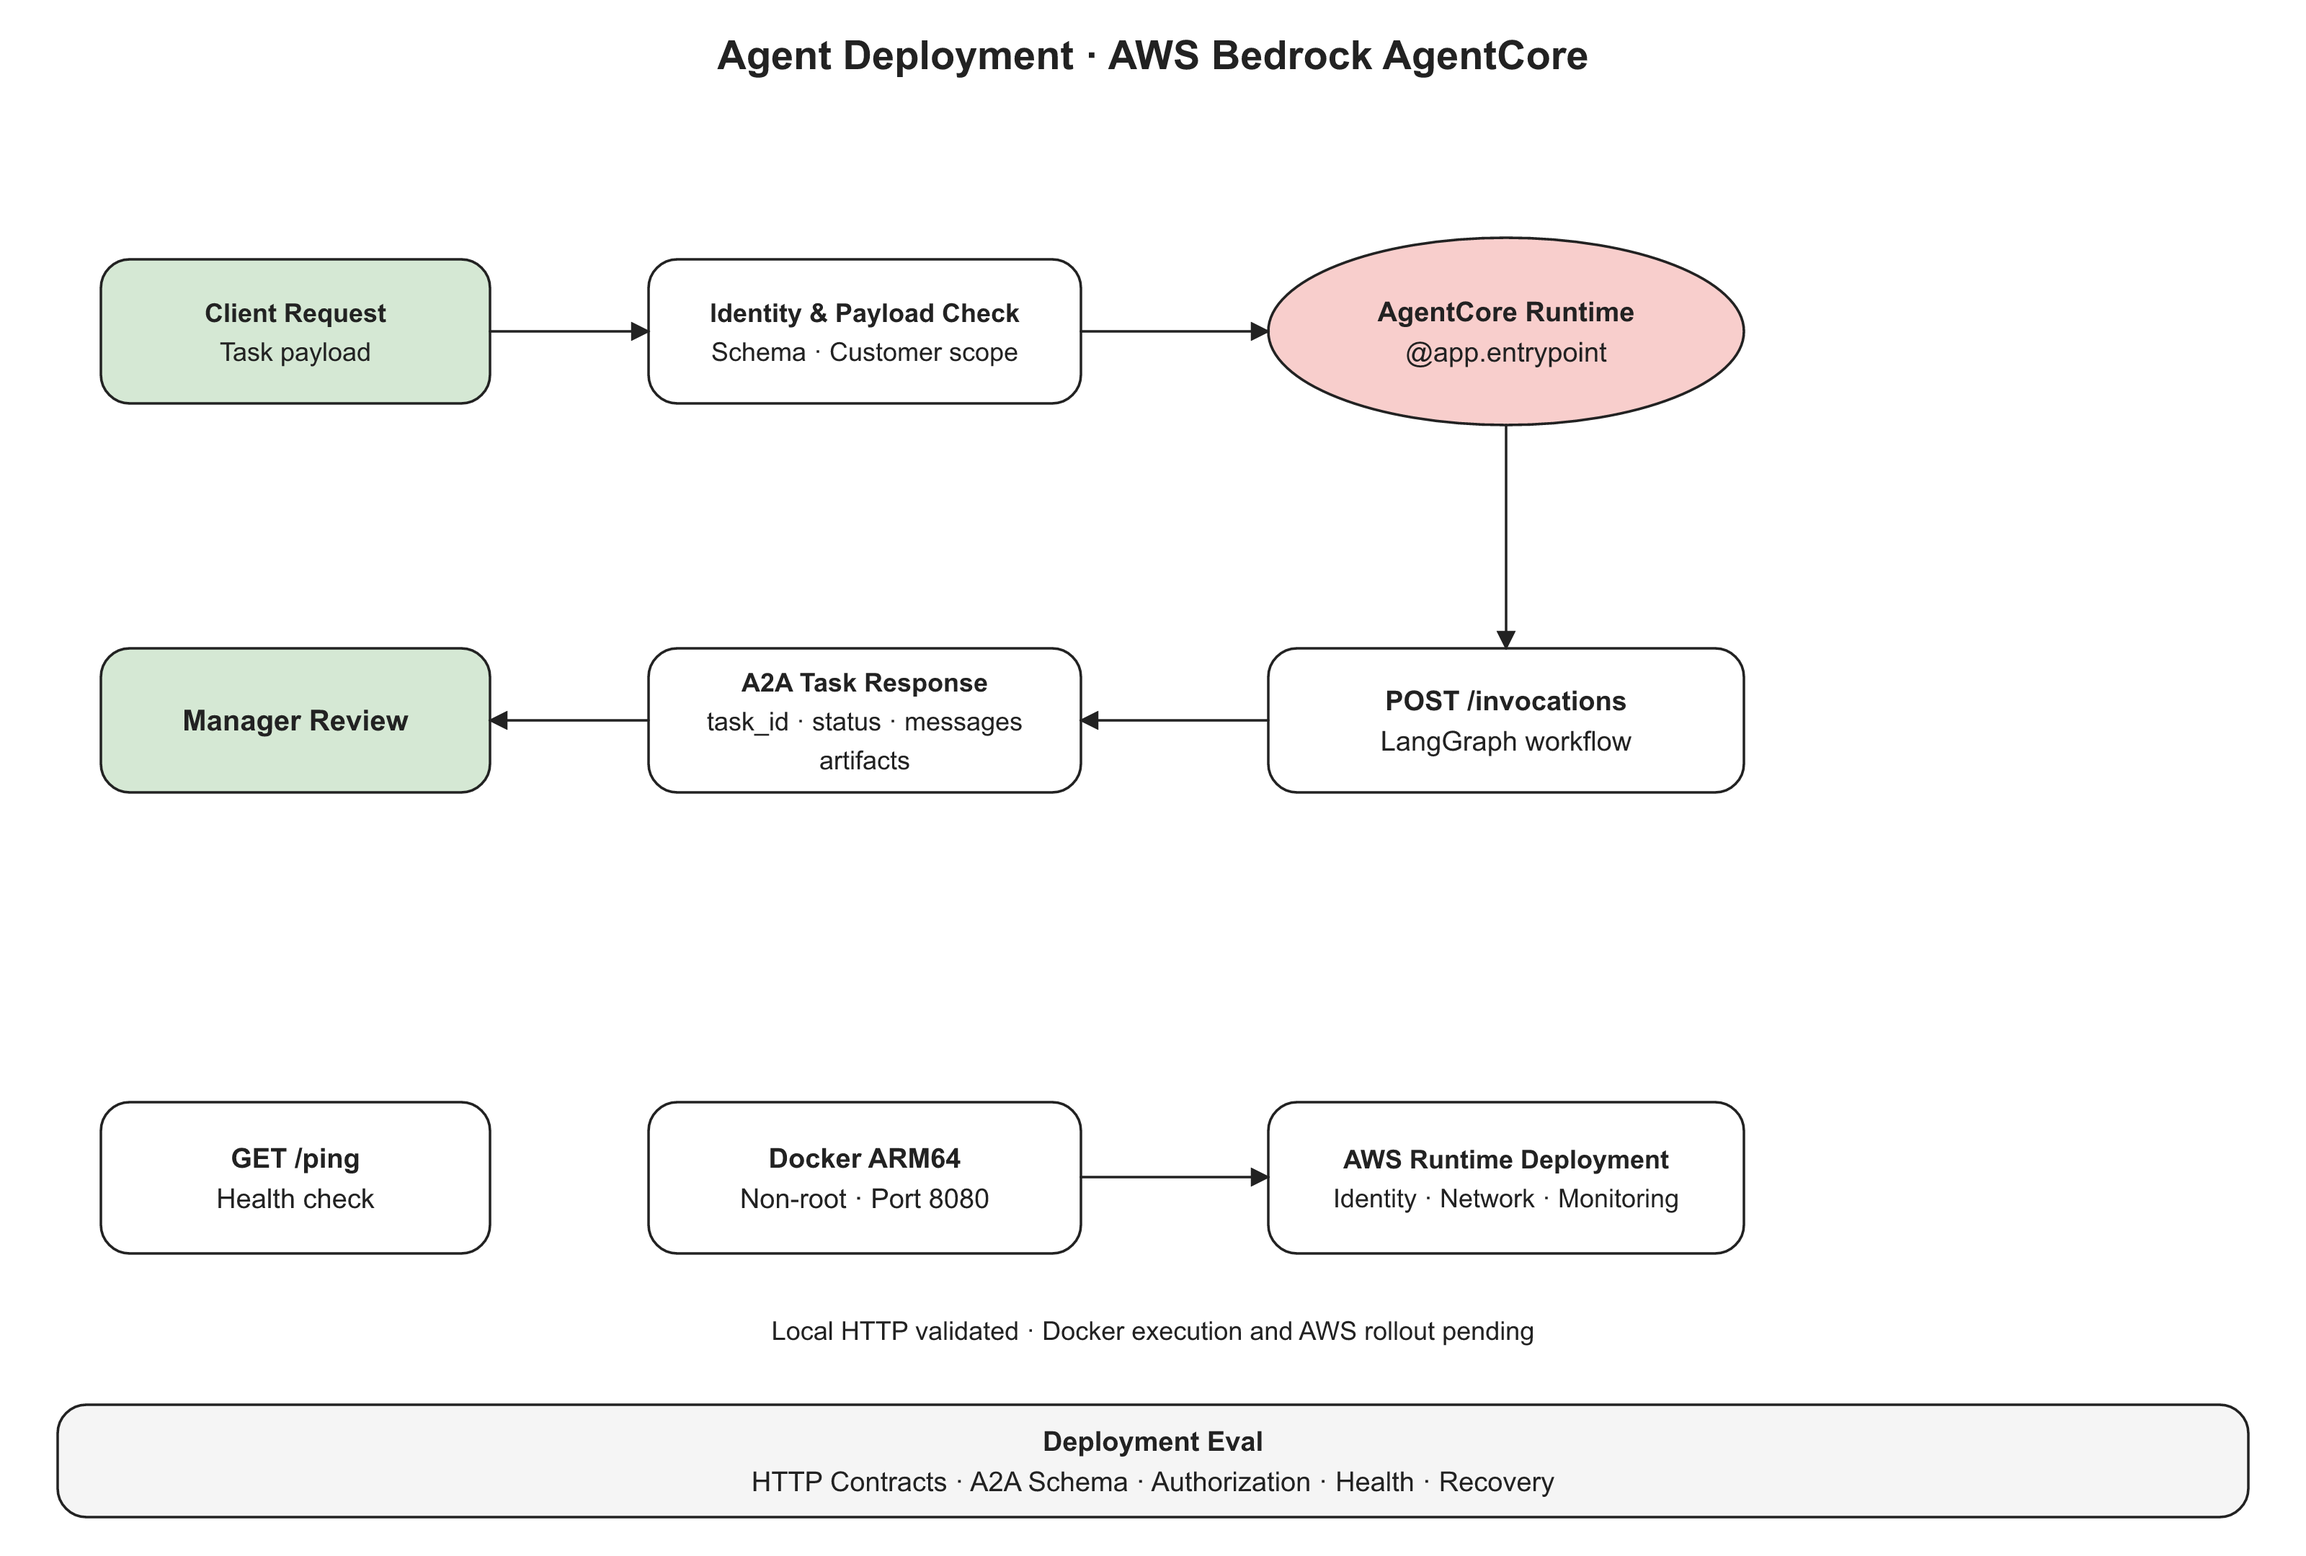
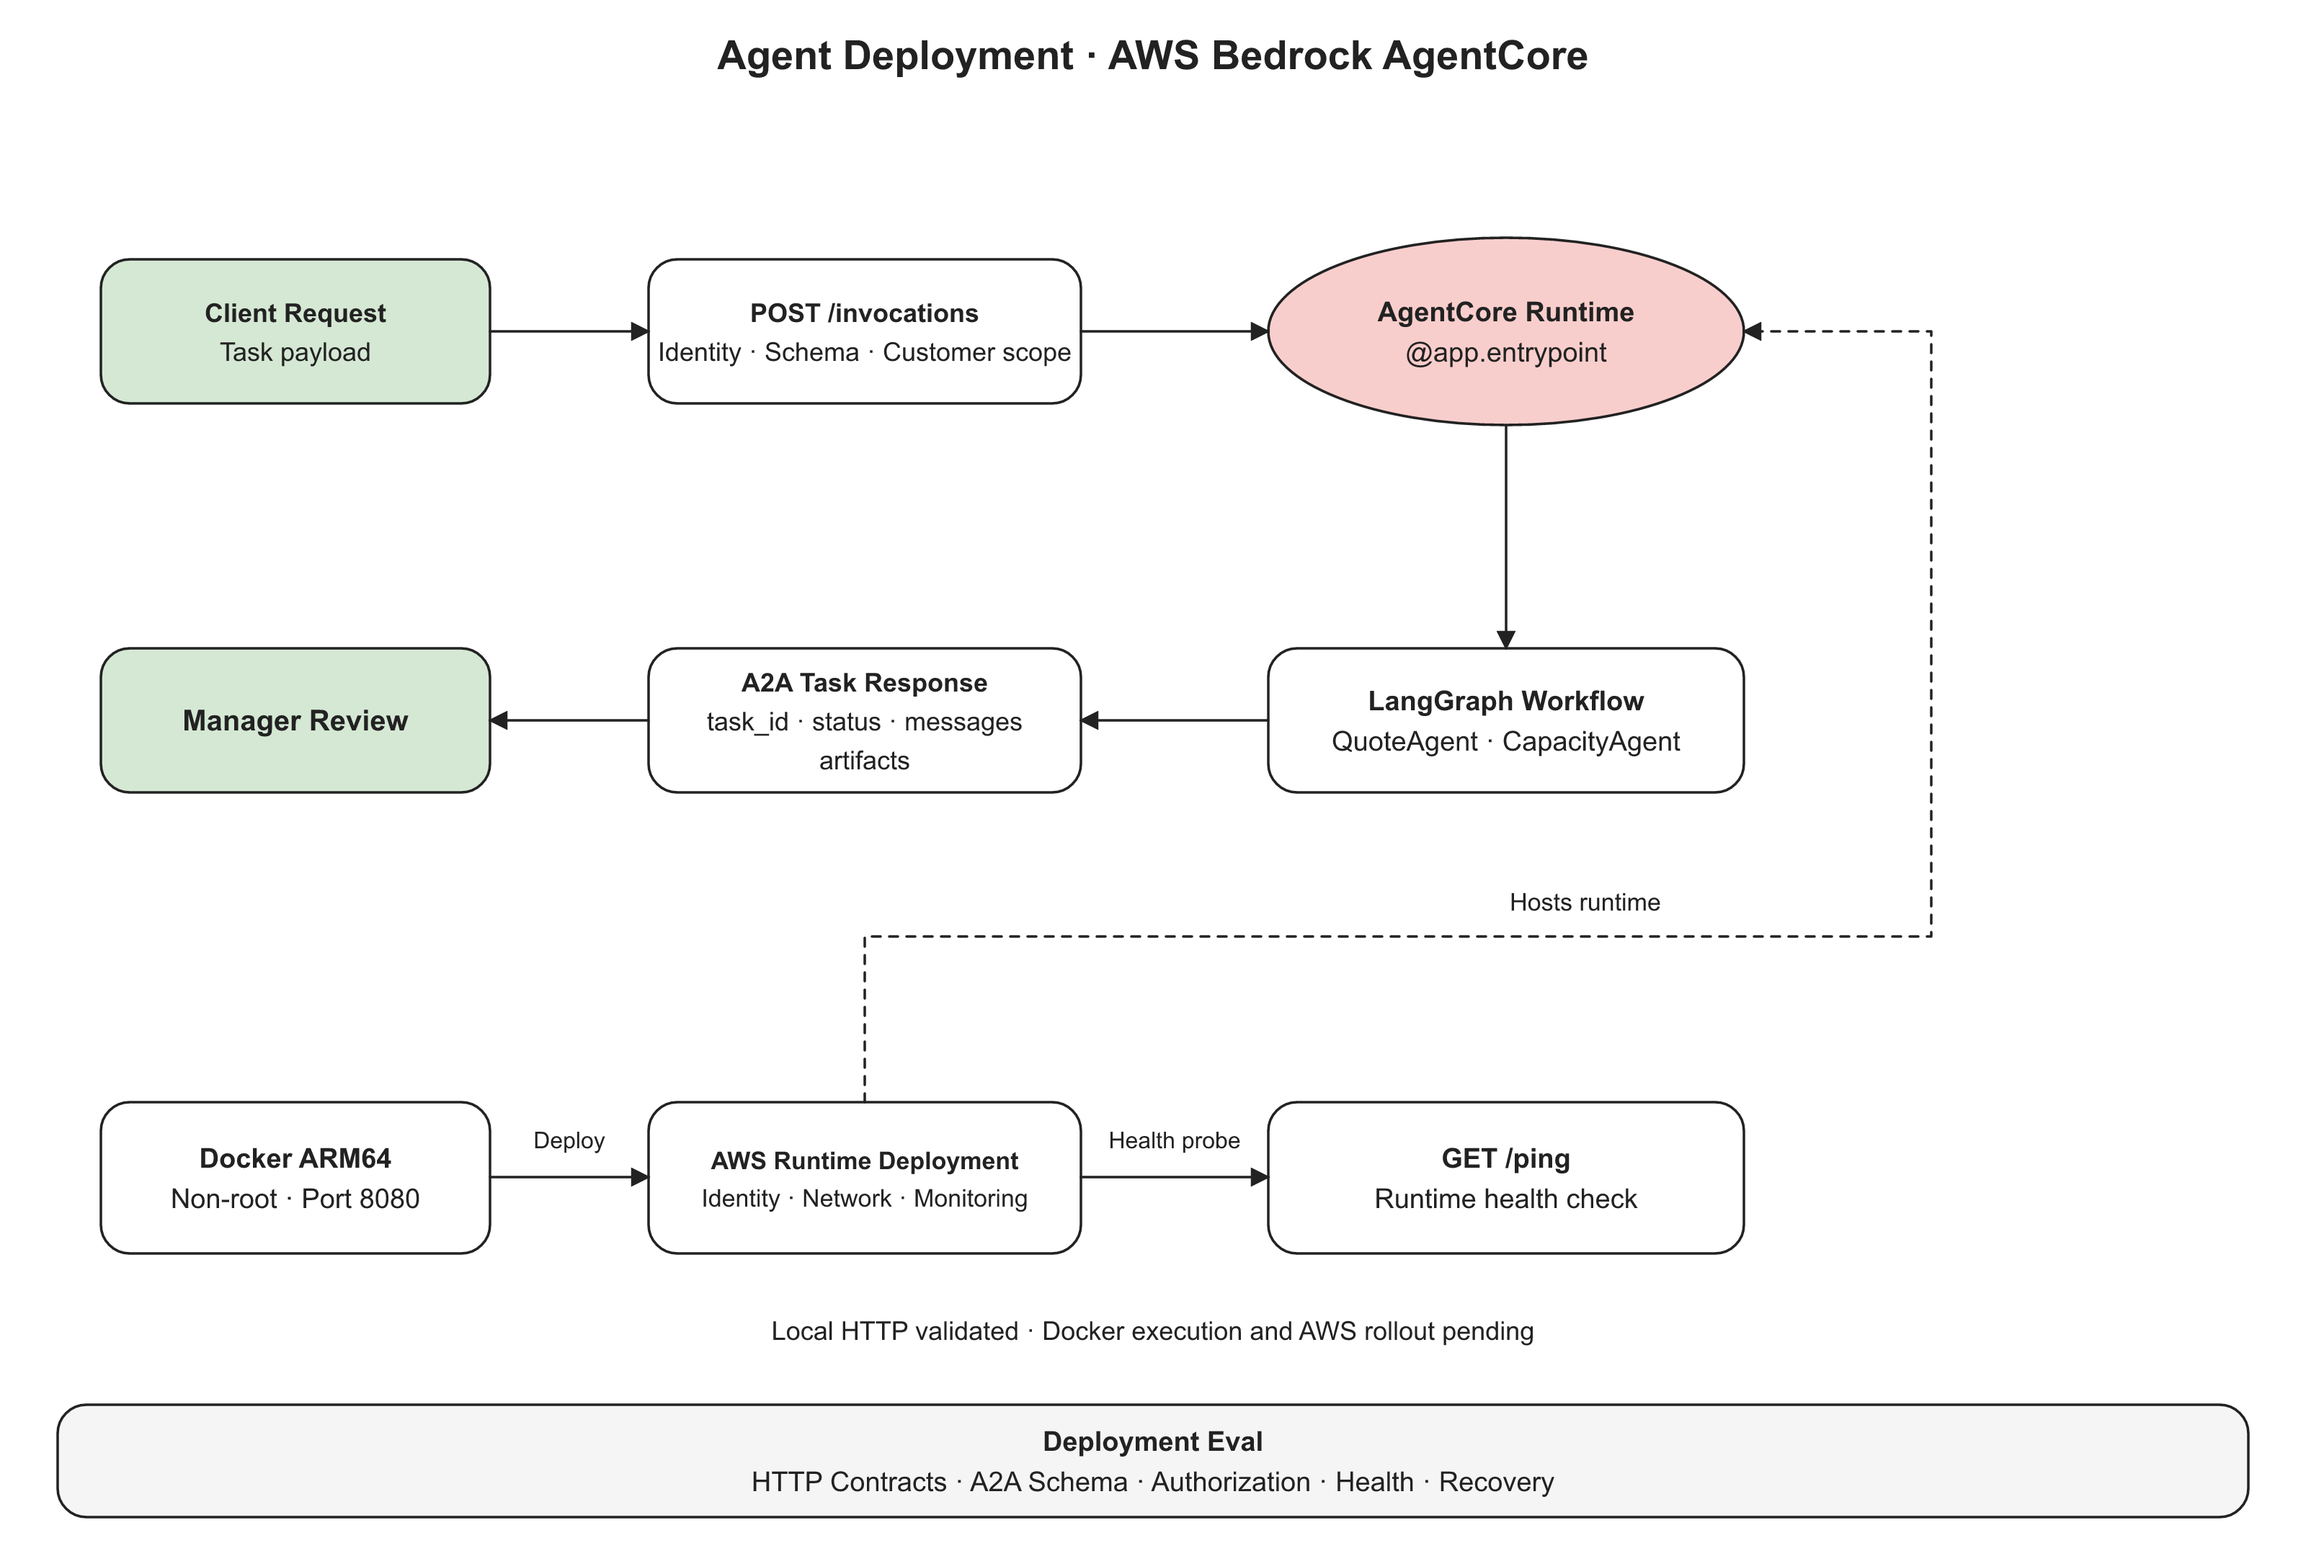
fix: refresh screenshot URL and connect deployment architecture

diff --git a/scripts/render_system_views.py b/scripts/render_system_views.py
@@ -397,11 +397,11 @@ def automated_eval():
 def deployment():
     d = Diagram("Agent Deployment · AWS Bedrock AgentCore")
     d.box(70, 180, 270, 100, ["Client Request", "Task payload"], "#d5e8d4", 18)
-    d.box(450, 180, 300, 100, ["Identity & Payload Check", "Schema · Customer scope"], size=18)
+    d.box(450, 180, 300, 100, ["POST /invocations", "Identity · Schema · Customer scope"], size=18)
     d.ellipse(880, 165, 330, 130, ["AgentCore Runtime", "@app.entrypoint"], 19)
     d.arrow([(340, 230), (450, 230)])
     d.arrow([(750, 230), (880, 230)])
-    d.box(880, 450, 330, 100, ["POST /invocations", "LangGraph workflow"], size=19)
+    d.box(880, 450, 330, 100, ["LangGraph Workflow", "QuoteAgent · CapacityAgent"], size=19)
     d.arrow([(1045, 295), (1045, 450)])
     d.box(
         450,
@@ -414,12 +414,15 @@ def deployment():
     d.arrow([(880, 500), (750, 500)])
     d.box(70, 450, 270, 100, ["Manager Review"], "#d5e8d4")
     d.arrow([(450, 500), (340, 500)])
-    d.box(70, 765, 270, 105, ["GET /ping", "Health check"], size=19)
-    d.box(450, 765, 300, 105, ["Docker ARM64", "Non-root · Port 8080"], size=19)
-    d.box(
-        880, 765, 330, 105, ["AWS Runtime Deployment", "Identity · Network · Monitoring"], size=18
-    )
+    d.box(70, 765, 270, 105, ["Docker ARM64", "Non-root · Port 8080"], size=19)
+    d.box(450, 765, 300, 105, ["AWS Runtime Deployment", "Identity · Network · Monitoring"], size=17)
+    d.box(880, 765, 330, 105, ["GET /ping", "Runtime health check"], size=19)
+    d.arrow([(340, 817), (450, 817)])
+    d.text(395, 797, ["Deploy"], 16)
     d.arrow([(750, 817), (880, 817)])
+    d.text(815, 797, ["Health probe"], 16)
+    d.arrow([(600, 765), (600, 650), (1340, 650), (1340, 230), (1210, 230)], dashed=True)
+    d.text(1100, 632, ["Hosts runtime"], 17)
     d.text(800, 930, ["Local HTTP validated · Docker execution and AWS rollout pending"], 18)
     d.footer("Deployment Eval", "HTTP Contracts · A2A Schema · Authorization · Health · Recovery")
     d.save("agent_deployment_architecture")

diff --git a/README.md b/README.md
@@ -110,7 +110,7 @@ The recorded batch contains **5 authored fixtures + 18 parameterized cases**. Tw
 
 ![LangSmith tracing architecture](docs/assets/agent_tracing_architecture.png)
 
-![LangSmith activity screenshot supplied by the project owner](docs/assets/langsmith.png)
+![LangSmith activity screenshot supplied by the project owner](docs/assets/langsmith-observability-2026-11-08.png)
 
 Root and child runs record node transitions, tool arguments, model calls, token usage and latency. Waterfall traces support diagnosis across **data → retrieval → tools → final decisions**. The screenshot is a seven-day activity aggregate including diagnostics and other runs; its 121 traces and model-call totals are **not the same denominator** as the 23-case acceptance batch. Detailed case Run IDs are retained in the report; private LangSmith access is not required to read this repository.
 
@@ -130,7 +130,7 @@ The target **LlamaFirewall** design combines Input/Output/Tool Guardrails, promp
 
 ### Agent Deployment
 
-![AgentCore deployment architecture](docs/assets/agent_deployment_architecture.png)
+![AgentCore deployment architecture](docs/assets/agent-deployment-flow-v2.png)
 
 The actual AWS Bedrock AgentCore SDK wraps `invoke(payload)` with `@app.entrypoint`. Local checks exercise **GET `/ping`**, **POST `/invocations`**, malformed payloads, authorization and customer-scope injection. The Dockerfile targets ARM64 and non-root execution; **image execution and AWS rollout have not been verified**.
 
